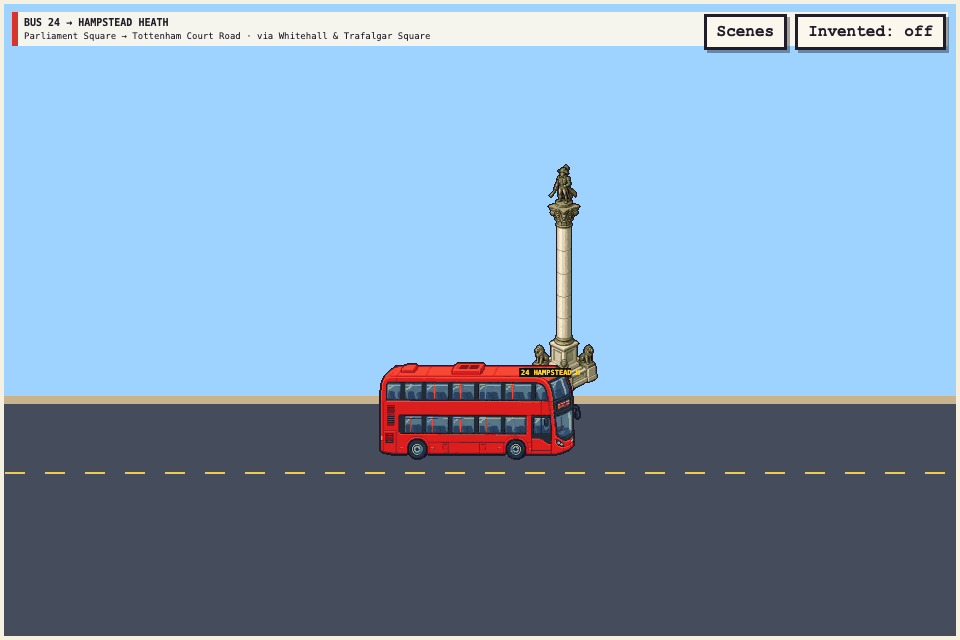
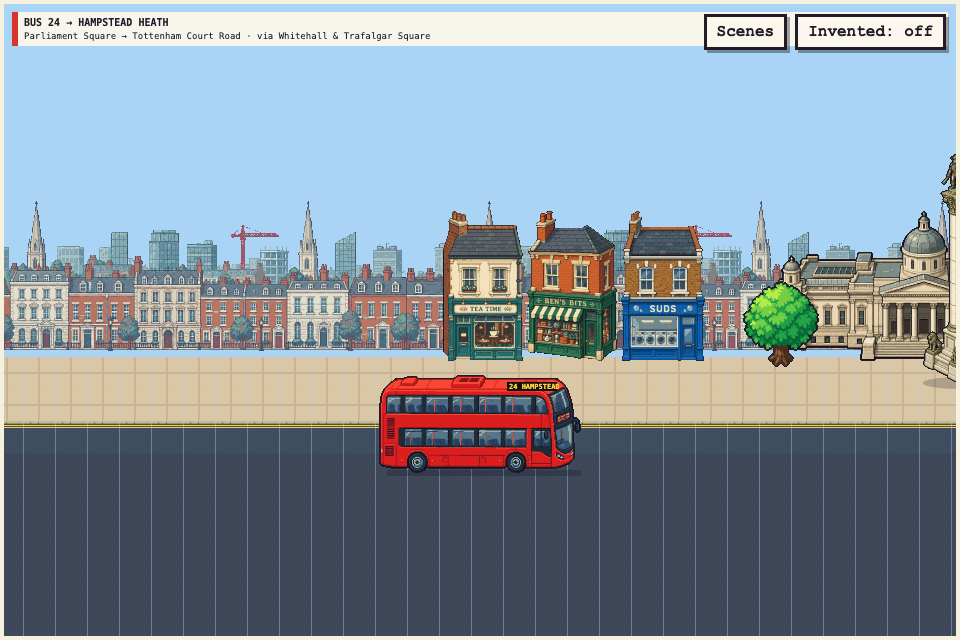
Demo: city skyline and street backdrops, ground-layer tube entrance, Lucas persona
Westminster and St Giles get a generated skyline behind their far side; the bus
ride scrolls past the National Gallery and Nelson's Column; the tube ride runs
through a tunnel; map edges continue their tiles so no empty canvas shows.
The demo persona is Lucas, as on main.

diff --git a/public/london-25d/engine/engine.js b/public/london-25d/engine/engine.js
@@ -9,7 +9,9 @@
   const FW = 32, FH = 48;
   const DIR_ROW = { down: 0, left: 1, right: 2, up: 3 };
   const HIT = { w: 14, h: 6 };
-  const SHARED = ["shawn", "bus", "tube_train", "nelson"];
+  const SHARED = ["shawn", "bus", "tube_train", "nelson", "skyline", "national_gallery", "tube_tunnel",
+    "tile_paving", "tile_asphalt", "tile_kerb", "shop_corner", "shop_cafe", "shop_laundry", "tree"];
+  const MARGIN = 24; // tiles of ground drawn past each map edge, so the canvas never shows empty space
 
   const scenes = [];
   const DQ = (window.DQ = { T, scenes, scene: (def) => scenes.push(def) });
@@ -63,7 +65,6 @@
     scale = Math.max(1, Math.floor(Math.min(w / BASE_W, h / BASE_H)));
     viewW = Math.ceil(w / scale);
     viewH = Math.ceil(h / scale);
-    if (world) { viewW = Math.min(world.W, viewW); viewH = Math.min(world.H, viewH); }
     canvas.width = viewW;
     canvas.height = viewH;
     canvas.style.width = viewW * scale + "px";
@@ -93,7 +94,9 @@
         const im = img[name];
         if (!im) throw new Error(`${def.id}: asset ${name} not listed in assets`);
         const e = { name, im, x: Math.round(x), y: Math.round(baseY), w: im.width, h: im.height,
-          invented: !!o.invented, shadow: o.shadow ?? "ellipse", flip: !!o.flip, z: o.z ?? 0 };
+          invented: !!o.invented, shadow: o.shadow ?? "ellipse", flip: !!o.flip, z: o.z ?? 0,
+          // "ground": flat things (stairs, decals, rugs) drawn under everything that stands up
+          layer: o.layer === "ground" ? "ground" : "upright" };
         const depth = o.depth ?? Math.min(12, Math.round(im.height * 0.3));
         const [fx, fw] = o.foot ?? [Math.round(im.width * 0.1), Math.round(im.width * 0.8)];
         e.box = o.solid === false ? null : { x: e.x + fx, y: e.y - depth, w: fw, h: depth };
@@ -117,23 +120,28 @@
         return m;
       },
       // drawn behind everything, before the ground; parallax 0 = fixed to the world, 1 = fixed to the screen
-      backdrop(name, x, y, o = {}) { w.backdrops.push({ im: img[name], x, y, p: o.parallax ?? 0.3, invented: !!o.invented }); },
+      // repeatX: tile the backdrop across the whole map width (city skylines)
+      backdrop(name, x, y, o = {}) { w.backdrops.push({ im: img[name], x, y, p: o.parallax ?? 0.3, invented: !!o.invented, repeatX: !!o.repeatX }); },
+      // a hazy row of city rooftops standing on the line y, across the whole map
+      skyline(y, o = {}) { w.backdrops.push({ im: img.skyline, x: 0, y: y - img.skyline.height, p: o.parallax ?? 0.15, invented: !!o.invented, repeatX: true }); },
     };
     def.build(api);
     // ground
     const g = document.createElement("canvas");
-    g.width = w.W; g.height = w.H;
+    g.width = w.W + 2 * MARGIN * T; g.height = w.H + 2 * MARGIN * T;
     const gc = g.getContext("2d");
     gc.imageSmoothingEnabled = false;
-    for (let r = 0; r < def.rows; r++) {
-      for (let c = 0; c < def.cols; c++) {
-        let t = def.ground(c, r);
+    for (let r = -MARGIN; r < def.rows + MARGIN; r++) {
+      for (let c = -MARGIN; c < def.cols + MARGIN; c++) {
+        const inside = r >= 0 && c >= 0 && r < def.rows && c < def.cols;
+        // past the edge, repeat the nearest edge tile (keeps texture alignment via c, r)
+        let t = def.ground(Math.min(def.cols - 1, Math.max(0, c)), Math.min(def.rows - 1, Math.max(0, r)));
         if (!t) continue;
         if (typeof t === "string") t = { tile: t };
-        if (t.solid) w.solid[r * def.cols + c] = 1;
+        if (t.solid && inside) w.solid[r * def.cols + c] = 1;
         const im = img[t.tile];
         if (!im) throw new Error(`${def.id}: tile ${t.tile} not listed in assets`);
-        const x = c * T, y = r * T;
+        const x = (c + MARGIN) * T, y = (r + MARGIN) * T;
         gc.save();
         if (t.flipY) { gc.translate(x, y + T); gc.scale(1, -1); } else gc.translate(x, y);
         // textures bigger than a tile cover several cells; draw the matching part
@@ -317,30 +325,49 @@
     const p = Math.min(1, tr.t / (leg.frames || 240));
     ctx.setTransform(1, 0, 0, 1, 0, 0);
     ctx.imageSmoothingEnabled = false;
+    const I = world.img;
+    // repeat an image across the screen, scrolled by `off` px
+    const strip = (im, off, y, step = im.width) => { for (let x = -(((off % step) + step) % step); x < w; x += step) ctx.drawImage(im, Math.round(x), Math.round(y)); };
     if (leg.mode === "bus") {
-      ctx.fillStyle = "#9fd3ff"; ctx.fillRect(0, 0, w, h);
-      // Nelson's Column slides past behind the bus
-      const n = world.img.nelson;
-      ctx.drawImage(n, Math.round(w * 0.9 - p * (w * 0.9 + n.width)), Math.round(h * 0.62 - n.height));
-      ctx.fillStyle = "#c9b38a"; ctx.fillRect(0, Math.round(h * 0.62), w, 8);
-      ctx.fillStyle = "#454c5c"; ctx.fillRect(0, Math.round(h * 0.62) + 8, w, h);
-      ctx.fillStyle = "#f2c94c";
-      for (let x = -((tr.t * 3) % 40); x < w; x += 40) ctx.fillRect(x, Math.round(h * 0.74), 20, 2);
-      const b = world.img.bus, bx = Math.round(w / 2 - b.width / 2), by = Math.round(h * 0.72 - b.height + (tr.t % 20 < 10 ? 0 : 1));
+      // Whitehall → Trafalgar Square → Charing Cross Road: layered street scrolling past the bus
+      const kerbY = Math.round(h * 0.66), baseY = kerbY - 2 * T, off = tr.t * 2.2;
+      ctx.fillStyle = "#a9d4f5"; ctx.fillRect(0, 0, w, h);
+      strip(I.skyline, off * 0.25, baseY - I.skyline.height - 6, I.skyline.width - 1);
+      for (let x = -((off % T) + T) % T; x < w; x += T) {
+        ctx.drawImage(I.tile_paving, x, baseY); ctx.drawImage(I.tile_paving, x, baseY + T);
+        ctx.drawImage(I.tile_kerb, x, kerbY);
+        for (let y = kerbY + T; y < h; y += T) ctx.drawImage(I.tile_asphalt, x, y);
+      }
+      // the street front: terraces, then the square with the gallery and Nelson's Column, then terraces again
+      const row = [["shop_cafe", 0], ["shop_corner", 84], ["shop_laundry", 178], ["national_gallery", 330], ["shop_cafe", 700], ["shop_corner", 784], ["shop_laundry", 878]];
+      const x0 = w * 0.55 - off + 120;
+      for (const [n, x] of row) ctx.drawImage(I[n], Math.round(x0 + x), baseY - I[n].height + 4);
+      for (const tx of [300, 640]) ctx.drawImage(I.tree, Math.round(x0 + tx), baseY + 10 - I.tree.height);
+      const n = I.nelson;
+      ctx.fillStyle = "rgba(20,16,40,.22)"; ctx.beginPath(); ctx.ellipse(Math.round(x0 + 480 + n.width / 2 + 3), baseY + 26, n.width * 0.55, 6, 0, 0, Math.PI * 2); ctx.fill();
+      ctx.drawImage(n, Math.round(x0 + 480), baseY + 26 - n.height);
+      const b = I.bus, bx = Math.round(w / 2 - b.width / 2), by = Math.round(kerbY + T * 1.6 - b.height + (tr.t % 20 < 10 ? 0 : 1));
+      ctx.fillStyle = "rgba(20,16,40,.25)"; ctx.fillRect(bx + 8, by + b.height - 3, b.width - 8, 6);
       ctx.drawImage(b, bx, by);
       // destination blind
-      ctx.fillStyle = "#111"; ctx.fillRect(bx + b.width - 62, by + 6, 52, 9);
+      ctx.fillStyle = "#111"; ctx.fillRect(bx + b.width - 74, by + 7, 50, 9);
       ctx.fillStyle = "#ffd23f"; ctx.font = "bold 7px monospace";
-      ctx.fillText(`${leg.route} ${leg.destination}`.toUpperCase().slice(0, 14), bx + b.width - 60, by + 13);
+      ctx.fillText(`${leg.route} ${leg.destination}`.toUpperCase().slice(0, 13), bx + b.width - 72, by + 14);
     } else {
-      ctx.fillStyle = "#2a2430"; ctx.fillRect(0, 0, w, h);
+      // tube tunnel: cast-iron rings rush past, train runs on the track
+      const off = tr.t * 7;
+      for (let y = 0; y < h; y += I.tube_tunnel.height) strip(I.tube_tunnel, off, y);
+      const railY = Math.round(h * 0.7);
+      ctx.fillStyle = "#1c1820"; ctx.fillRect(0, railY, w, h - railY);
+      ctx.fillStyle = "#8d8a92"; ctx.fillRect(0, railY + 6, w, 2); ctx.fillRect(0, railY + 16, w, 2);
       ctx.fillStyle = "#3a3340";
-      for (let x = -((tr.t * 6) % 64); x < w; x += 64) ctx.fillRect(x, Math.round(h * 0.3), 30, Math.round(h * 0.3));
-      const im = leg.line === "Bakerloo" ? world.train.tube : world.img.tube_train;
-      const tx = Math.round(-im.width + p * (w + im.width * 2) * 0.75);
-      ctx.drawImage(im, tx, Math.round(h * 0.62 - im.height));
-      ctx.drawImage(im, tx - im.width + 2, Math.round(h * 0.62 - im.height));
-      ctx.fillStyle = "#5b5148"; ctx.fillRect(0, Math.round(h * 0.62), w, h);
+      for (let x = -((off * 1.4) % 24); x < w; x += 24) ctx.fillRect(Math.round(x), railY + 4, 6, 18);
+      const im = leg.line === "Bakerloo" ? world.train.tube : I.tube_train;
+      const tx = Math.round(-im.width * 2 + p * (w + im.width * 3));
+      ctx.drawImage(im, tx, railY + 8 - im.height);
+      ctx.drawImage(im, tx - im.width + 2, railY + 8 - im.height);
+      // a soft light pool from the train
+      ctx.fillStyle = "rgba(255,230,160,.08)"; ctx.fillRect(tx - im.width, railY - im.height - 12, im.width * 2 + 30, im.height + 20);
     }
     // caption
     ctx.fillStyle = "rgba(251,247,236,.95)";
@@ -421,16 +448,24 @@
     if (mode === "transit") { drawTransit(); return; }
     if (!world) return;
     const d = world.def;
-    cam.x = Math.round(Math.max(0, Math.min(world.W - viewW, player.x - viewW / 2)));
-    cam.y = Math.round(Math.max(0, Math.min(world.H - viewH, player.y - 24 - viewH / 2)));
+    // follow the player; a map smaller than the screen is centred instead
+    cam.x = Math.round(world.W <= viewW ? (world.W - viewW) / 2 : Math.max(0, Math.min(world.W - viewW, player.x - viewW / 2)));
+    cam.y = Math.round(world.H <= viewH ? (world.H - viewH) / 2 : Math.max(0, Math.min(world.H - viewH, player.y - 24 - viewH / 2)));
     ctx.setTransform(1, 0, 0, 1, 0, 0);
     ctx.fillStyle = d.sky || "#14121a";
     ctx.fillRect(0, 0, viewW, viewH);
-    for (const b of world.backdrops) ctx.drawImage(b.im, Math.round(b.x - cam.x * (1 - b.p)), Math.round(b.y - cam.y));
-    ctx.drawImage(world.ground, cam.x, cam.y, viewW, viewH, 0, 0, viewW, viewH);
+    for (const b of world.backdrops) {
+      const bx = Math.round(b.x - cam.x * (1 - b.p)), by = Math.round(b.y - cam.y);
+      if (!b.repeatX) { ctx.drawImage(b.im, bx, by); continue; }
+      const iw = b.im.width;
+      for (let x = ((bx % iw) + iw) % iw - iw; x < viewW; x += iw - 1) ctx.drawImage(b.im, x, by);
+    }
+    ctx.drawImage(world.ground, cam.x + MARGIN * T, cam.y + MARGIN * T, viewW, viewH, 0, 0, viewW, viewH);
     ctx.translate(-cam.x, -cam.y);
+    for (const e of world.entities) if (e.layer === "ground") drawSprite(e.im, e.x, e.y - e.h, e.flip);
 
     for (const e of world.entities) {
+      if (e.layer === "ground") continue;
       if (e.shadow === "ellipse") drawShadow(e.x + e.w / 2, e.y, e.w * 0.8);
       else if (e.shadow === "base") { ctx.fillStyle = "rgba(20, 16, 40, 0.22)"; ctx.fillRect(e.x + 3, e.y - 2, e.w, 7); }
     }
@@ -438,7 +473,7 @@
     drawShadow(player.x, player.y, 18);
 
     const list = [];
-    for (const e of world.entities) list.push({ y: e.y + e.z, e });
+    for (const e of world.entities) if (e.layer !== "ground") list.push({ y: e.y + e.z, e });
     for (const m of world.movers) if (m.visible) list.push({ y: m.y + m.z, m });
     list.push({ y: player.y, player: true });
     list.sort((a, b) => a.y - b.y);

diff --git a/components/today/Today.tsx b/components/today/Today.tsx
@@ -269,7 +269,7 @@ export default function Today() {
     <div className="dq-hero"><div><p className="dq-eyebrow">YOUR PHOTOS / YOUR LITTLE WORLD</p><h1>Ordinary day.<br/><span>Extraordinary little world.</span></h1><p className="dq-intro">The places you went. The things you ate. The outfit you wore.<br className="dq-desktop-break"/> Gather today’s little moments, and give someone a place to visit.</p></div><div className="dq-date-card"><span>{(today?.toLocaleDateString("en-GB", { weekday: "long" }) ?? "Today").toUpperCase()}</span><strong>{today ? String(today.getDate()).padStart(2, "0") : "—"}</strong><span>{(today?.toLocaleDateString("en-GB", { month: "long", year: "numeric" }) ?? "Your day").toUpperCase()}</span><div>✦ SAVE THE LITTLE THINGS</div></div></div>
     <div className="dq-content"><LocationSync/>
     <section className="dq-panel" aria-labelledby="photos-title"><div className="dq-section-heading"><div><span className="dq-eyebrow">02 / THE LITTLE MOMENTS</span><h2 id="photos-title">What did today look like?</h2></div><span className="dq-counter">{uploaded} / {quests.length} COLLECTED</span></div><p className="dq-section-copy">Start with your fit. Add a place and your lunch. We’ll build the buildings, little details, and a walking character for your world.</p>
-      {DEMO_MODE && <p><button type="button" className="dq-small-button" onClick={fillDemoDay} disabled={spriteBusy}>✦ USE THE DEMO DAY</button> <span className="dq-footnote">Fills Shawn’s fit, lunch and Westminster photos. Nothing is uploaded.</span></p>}
+      {DEMO_MODE && <p><button type="button" className="dq-small-button" onClick={fillDemoDay} disabled={spriteBusy}>✦ USE THE DEMO DAY</button> <span className="dq-footnote">Fills Lucas’s fit, lunch and Westminster photos. Nothing is uploaded.</span></p>}
       <div className="dq-photo-grid">{quests.map(quest => { const photo = photos[quest.kind]; return <div className={`dq-photo-card ${photo?.url ? "is-uploaded" : ""} ${quest.kind === "fit" ? "dq-photo-required" : ""}`} key={quest.kind}>
         <label className="dq-upload-zone" onDragOver={event => event.preventDefault()} onDrop={event => { event.preventDefault(); void upload(quest.kind, event.dataTransfer.files[0]); }}>
           <input type="file" accept="image/jpeg,image/png,image/webp" capture="environment" aria-label={`Upload ${quest.name}`} disabled={!sessionId} onChange={event => { void upload(quest.kind, event.target.files?.[0]); event.target.value = ""; }}/>

diff --git a/public/london-25d/scenes/kanada-ya/scene.js b/public/london-25d/scenes/kanada-ya/scene.js
@@ -56,6 +56,8 @@
     },
 
     build(w) {
+      // rooftops of the streets behind the south-side frontages (generic, invented)
+      w.skyline(BASE + 4, { parallax: 0.12, invented: true });
       const { img, W } = w;
       const front = (name, x, o = {}) => w.add(name, x, BASE, { depth: 30, shadow: "base", foot: [0, img[name].width], ...o });
 
@@ -107,7 +109,7 @@
       w.add("bin_grey", 620, (ROW_KERB_BOTTOM + 1) * T + 18, {});
 
       // Tottenham Court Road entrance on the north pavement, west end (towards St Giles Circus)
-      const te = w.add("tube_entrance", 860, ROWS * T - 2, { solid: false, shadow: "none" });
+      const te = w.add("tube_entrance", 860, ROWS * T - 2, { solid: false, shadow: "none", layer: "ground" }); // stairs go down: drawn under the player
       w.block(te.x + 4, te.y - te.h + 30, te.w - 8, 10);           // back railing
       w.talk(te.x - 10, te.y - 40, TEXT.tube);
       w.exit(te.x + 22, te.y - 50, 44, 30, { label: "TUBE" });
@@ -175,7 +177,7 @@
       w.add("long_table", lx, ly, { depth: 26, invented: true, foot: [4, img.long_table.width - 8] });
       w.talk(d.x + d.w / 2, ly + 2, IN.diners);
 
-      // Shawn's table 30, from the photo
+      // the player's table 30, from the meal photo
       const tx = Math.round((W - img.table30.width) / 2), ty = 12 * T + 8;
       const fr = w.add("friend", Math.round(W / 2 - img.friend.width / 2), ty - img.table30.height + 14, { depth: 8, z: -1 });
       const t30 = w.add("table30", tx, ty, { depth: 28, foot: [4, img.table30.width - 8] });

diff --git a/public/london-25d/scenes/westminster/scene.js b/public/london-25d/scenes/westminster/scene.js
@@ -79,6 +79,8 @@
 
       // ---- skyline: the Shard is really behind the viewer here (it's east, in Southwark); the spec puts it on the skyline
       w.backdrop("shard", 850, ROW_TOP * T - img.shard.height + 6, { parallax: 0.3, invented: true });
+      // city rooftops beyond the far bank, so the landmarks stand in front of a street, not bare sky (generic, invented)
+      w.skyline(ROW_TOP * T + 4, { parallax: 0.12, invented: true });
 
       // ---- river walls: the water half of each edge tile is not walkable
       w.block(0, farEdgeY + 19, BX0, T - 19);

diff --git a/public/london-25d/scenes/regents-park/scene.js b/public/london-25d/scenes/regents-park/scene.js
@@ -66,7 +66,7 @@
       const midX = (WALK_C0 + 2) * T; // centre line of the walk
       const fenceY = FENCE_R * T + 18;
 
-      // ---- Jubilee Gates (bottom centre): Shawn starts just inside them, facing up the walk ----
+      // ---- Jubilee Gates (bottom centre): the player starts just inside them, facing up the walk ----
       const g = img.jubilee_gates;
       const gx = midX - g.width / 2;
       w.add("jubilee_gates", gx, fenceY, { shadow: "base", depth: g.height - 24, foot: [0, g.width] });

diff --git a/lib/demo.ts b/lib/demo.ts
@@ -40,7 +40,7 @@ export type DemoScene = { time: string; kind: string; title: string; landmarks: 
 
 export const DEMO_DAY = {
   id: "demo",
-  name: "Shawn",
+  name: "Lucas",
   date: "Saturday in London",
   game: `${ART}/index.html?scene=westminster&autostart`,
   scenes: [

diff --git a/public/london-25d/shared/prompts.md b/public/london-25d/shared/prompts.md
@@ -14,7 +14,7 @@ Tile ending:
 
 > This is a single seamless repeating ground texture tile viewed straight down (orthographic, no perspective), filling the entire square image edge to edge, designed on a 16x16 grid of big pixels so it tiles seamlessly on all four sides. No border, no objects, no text. Square 1024x1024.
 
-## Calls (5)
+## Calls (8)
 
 ### bench (2026-11-01 14-38-32)
 
@@ -46,6 +46,24 @@ Original pixel-art game asset for a 2010s handheld (DS-era) style top-down RPG. 
 Original pixel-art game asset for a 2010s handheld (DS-era) style top-down RPG. Steep top-down 3/4 view (camera high, looking down at about 60 degrees, so we see the front face and a sliver of the top). Clean crisp chunky square pixels, flat colour shading with 2-3 tones per material, absolutely no dithering, no noise, no gradients, no anti-aliasing blur. Dark 1px outlines around shapes. Bright cheerful palette (teal-green grass, sandy paving, warm red-brown bricks). Light comes from the top-left. Entirely original design, not copied from or imitating any existing game, character or logo. A very tall granite column with a bronze Corinthian capital and a small statue of an admiral on top, on a square stone base with four bronze lions at the corners. Very tall and thin, portrait 1024x1536. Show ONE isolated object, centred, whole object visible with margin around it, on a perfectly flat solid pure magenta (#FF00FF) background. No cast shadow on the ground, no ground plane, no scenery, no border, no extra text or labels.
 ```
 
+### national_gallery (2026-11-01 15-16-12)
+
+```text
+Original pixel-art game asset for a 2010s handheld (DS-era) style top-down RPG. Steep top-down 3/4 view (camera high, looking down at about 60 degrees, so we see the front face and a sliver of the top). Clean crisp chunky square pixels, flat colour shading with 2-3 tones per material, absolutely no dithering, no noise, no gradients, no anti-aliasing blur. Dark 1px outlines around shapes. Bright cheerful palette (teal-green grass, sandy paving, warm red-brown bricks). Light comes from the top-left. Entirely original design, not copied from or imitating any existing game, character or logo. A grand neoclassical gallery building on a London square: long pale Portland stone facade, a central portico with tall columns and a triangular pediment, a small green-grey dome above, wide steps in front. Very wide landscape 1536x1024. Show ONE isolated object, centred, whole object visible with margin around it, on a perfectly flat solid pure magenta (#FF00FF) background. No cast shadow on the ground, no ground plane, no scenery, no border, no extra text or labels.
+```
+
+### tube_tunnel (2026-11-01 15-16-12)
+
+```text
+Original pixel-art game asset for a 2010s handheld (DS-era) style top-down RPG. Steep top-down 3/4 view (camera high, looking down at about 60 degrees, so we see the front face and a sliver of the top). Clean crisp chunky square pixels, flat colour shading with 2-3 tones per material, absolutely no dithering, no noise, no gradients, no anti-aliasing blur. Dark 1px outlines around shapes. Bright cheerful palette (teal-green grass, sandy paving, warm red-brown bricks). Light comes from the top-left. Entirely original design, not copied from or imitating any existing game, character or logo. ONLY the wall of a London Underground tube tunnel seen from the side: dark grey curved cast-iron tunnel lining segments with bolted ribs, two thick black cables running horizontally along it, a small warm lamp in the middle. Nothing else: no train, no platform, no people, no text. This is a single seamless repeating ground texture tile viewed straight down (orthographic, no perspective), filling the entire square image edge to edge, designed on a 16x16 grid of big pixels so it tiles seamlessly on all four sides. No border, no objects, no text. Square 1024x1024.
+```
+
+### skyline (2026-11-01 15-16-12)
+
+```text
+Original pixel-art game asset for a 2010s handheld (DS-era) style top-down RPG. Steep top-down 3/4 view (camera high, looking down at about 60 degrees, so we see the front face and a sliver of the top). Clean crisp chunky square pixels, flat colour shading with 2-3 tones per material, absolutely no dithering, no noise, no gradients, no anti-aliasing blur. Dark 1px outlines around shapes. Bright cheerful palette (teal-green grass, sandy paving, warm red-brown bricks). Light comes from the top-left. Entirely original design, not copied from or imitating any existing game, character or logo. A long row of distant London city buildings seen from street level as a backdrop: a mix of Victorian brick terraces, pale Portland stone offices, a few modern glass blocks, chimney pots, two thin church spires and a construction crane, all standing on one flat horizontal baseline, slightly hazy and lighter in tone as if a few streets away. The row spans the full width and repeats seamlessly left-right. Very wide landscape 1536x1024. Show ONE isolated object, centred, whole object visible with margin around it, on a perfectly flat solid pure magenta (#FF00FF) background. No cast shadow on the ground, no ground plane, no scenery, no border, no extra text or labels.
+```
+
 ## Notes
 
-The other shared sprites (Shawn's walk sheet, the Shadwell tiles and props) are copied unchanged from ../shadwell-25d/assets; their prompts are in ../shadwell-25d/assets/prompts.md.
+skyline is drawn as a repeating backdrop behind the far side of Westminster and St Giles High Street, and on the bus transit; process.py blends it 22% towards the sky colour so it reads as a few streets away. The other shared sprites (Shawn's walk sheet, the Shadwell tiles and props) are copied unchanged from ../shadwell-25d/assets; their prompts are in ../shadwell-25d/assets/prompts.md.

diff --git a/DEMO_PLAN.md b/DEMO_PLAN.md
@@ -6,16 +6,16 @@ Goal: the core DayQuest journey plays end to end in about 2 minutes, with no gen
 
 | # | Screen | Route | What happens in the demo | Mocked |
 |---|---|---|---|---|
-| 1 | Today | `/` | Location history syncs onto the map (existing animation). Tap **Use the demo day** (or add any 3 photos) to fill fit, lunch and place. The character step "stitches" for ~2 s, then shows Shawn's sprite. Import Health shows the walk. Transport chips are already there. | Uploads stay in the browser (local preview only, nothing is sent). Fit check returns the prebuilt Shawn sprite after a scripted delay. |
+| 1 | Today | `/` | Location history syncs onto the map (existing animation). Tap **Use the demo day** (or add any 3 photos) to fill fit, lunch and place. The character step "stitches" for ~2 s, then shows Lucas's sprite. Import Health shows the walk. Transport chips are already there. | Uploads stay in the browser (local preview only, nothing is sent). Fit check returns the prebuilt player sprite after a scripted delay. |
 | 2 | Generating | `/generating` | A scripted log ticks through the real pipeline steps (finding landmarks, references, pixelating each sprite) with thumbnails of the actual prebuilt sprites and a progress bar. It takes ~8 s, then goes on to the day. | `/api/world-jobs` is never called. The events are a fixed script in `lib/demo.ts`. |
-| 3 | Shared day | `/day/demo` | Title, date, Shawn's sprite, **Share this day** (copies the link). The playable world sits below, then the itinerary of 3 places. | Static manifest in `lib/demo.ts`; no Blob fetch. |
+| 3 | Shared day | `/day/demo` | Title, date, Lucas's sprite, **Share this day** (copies the link). The playable world sits below, then the itinerary of 3 places. | Static manifest in `lib/demo.ts`; no Blob fetch. |
 | 4 | Game (inside screen 3) | `/london-25d/index.html?scene=westminster&autostart` in an iframe | Westminster (10:30) → bus 24 transit → Kanada-Ya (12:40; walk in through the door to the interior with table 30 and the four bowls) → Central + Bakerloo transit → Regent's Park (14:15; walk stats) → end card. A scene picker is reachable from **Scenes** / Esc. | Nothing. These are the prebuilt assets, played by the vanilla canvas engine. |
 
 ## Where each scene plugs in
 
 - `public/london-25d/` is a copy of `../openai-hack/london-25d` without `assets/raw/`, `logs/` or tools, made by `scripts/sync-london-25d.sh`:
   - `engine/` holds the shared engine.
-  - `shared/assets/` holds Shawn and the shared props.
+  - `shared/assets/` holds the player sheet and the shared props.
   - `scenes/westminster/` is scene 1.
   - `scenes/kanada-ya/` is scene 2: the street plus the `kanada-ya-inside` interior.
   - `scenes/regents-park/` is scene 3.
